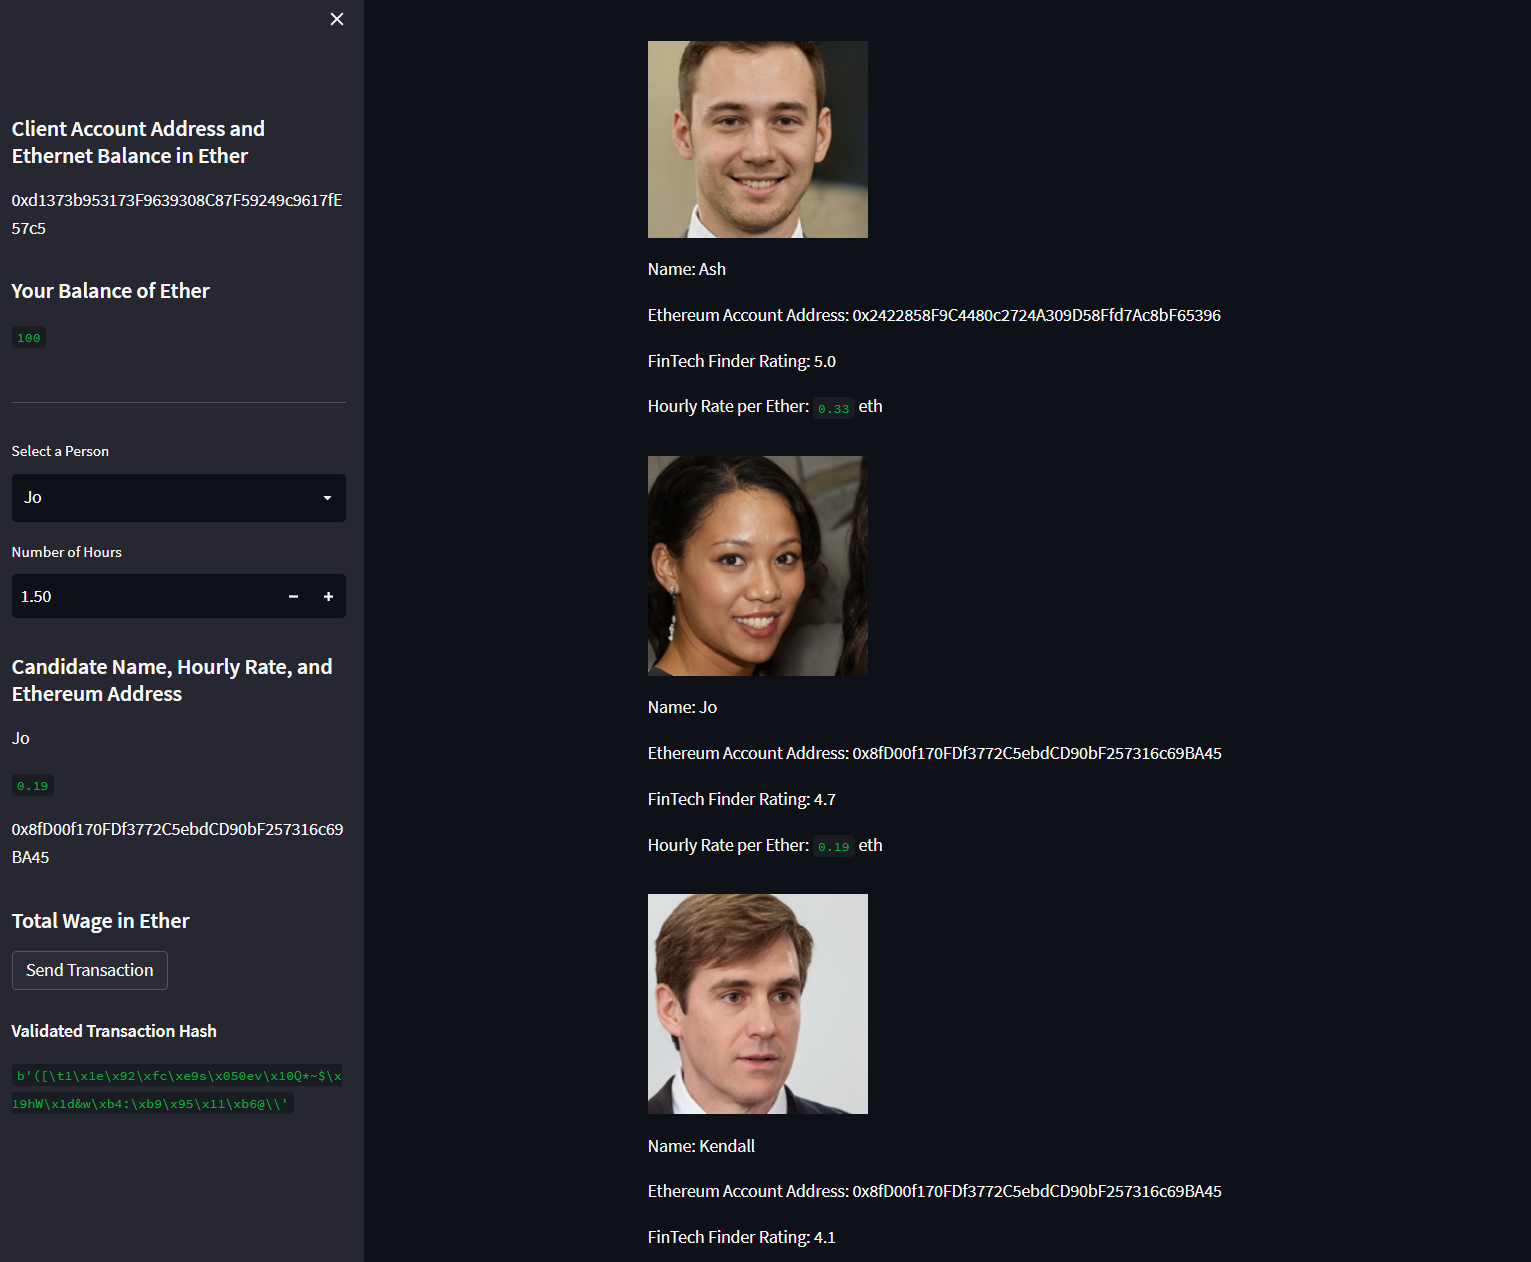
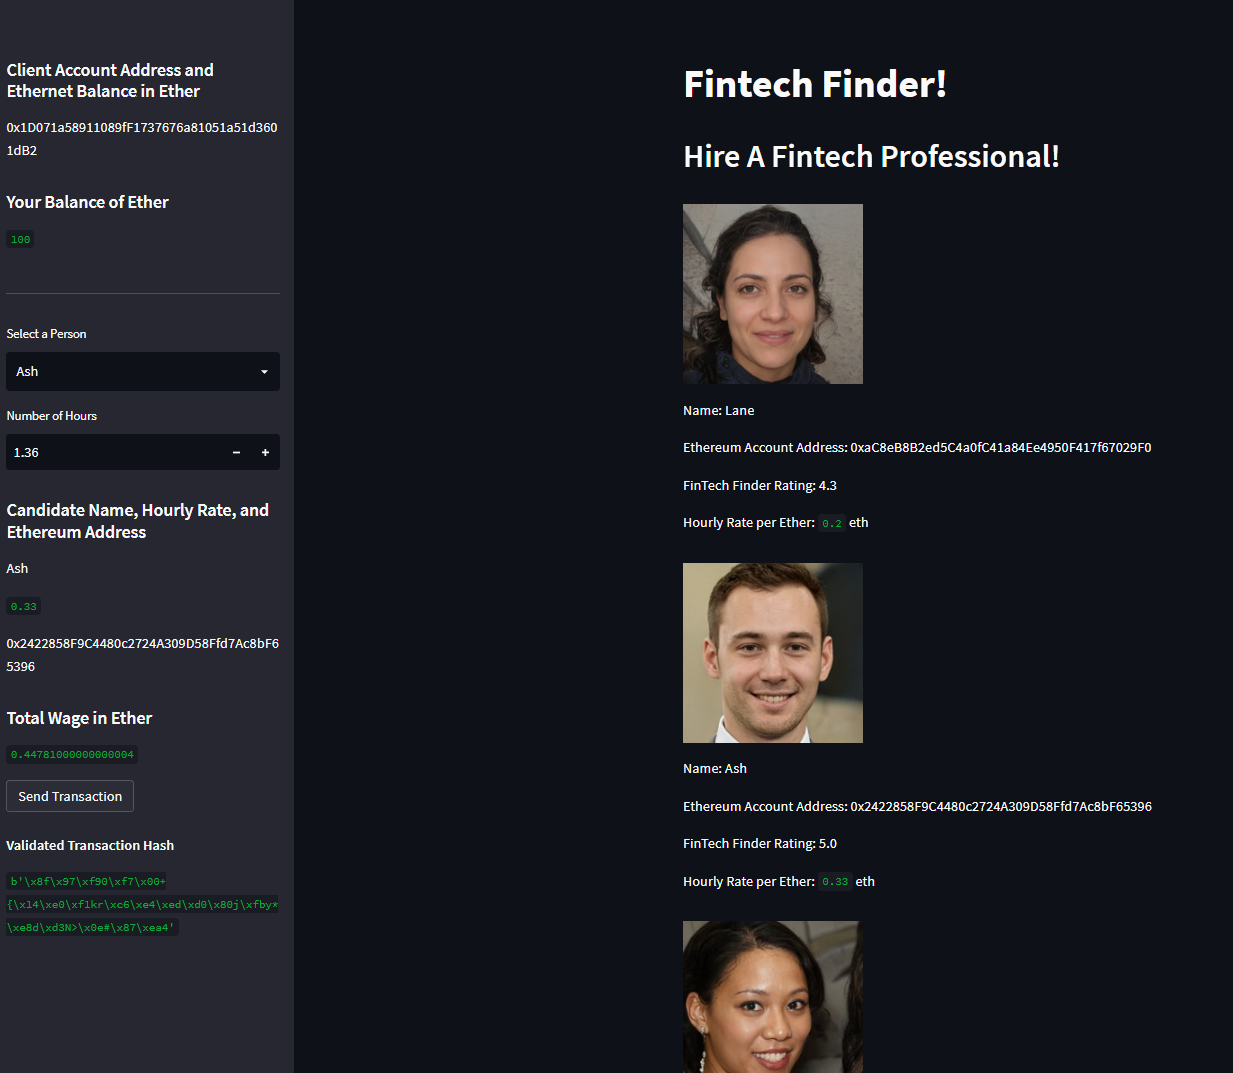
update Assignment19

diff --git a/Assignment19/.ipynb_checkpoints/fintech_finder-checkpoint.py b/Assignment19/.ipynb_checkpoints/fintech_finder-checkpoint.py
@@ -247,7 +247,9 @@ st.sidebar.markdown("## Total Wage in Ether")
 
 # @TODO
 # Write the `wage` calculation to the Streamlit sidebar
-wage = hourly_rate * hours
+wage = candidate_database[person][3] * hours
+
+st.sidebar.write(wage)
 
 ##########################################
 # Step 2 - Part 2:

diff --git a/Assignment19/fintech_finder.py b/Assignment19/fintech_finder.py
@@ -247,7 +247,9 @@ st.sidebar.markdown("## Total Wage in Ether")
 
 # @TODO
 # Write the `wage` calculation to the Streamlit sidebar
-wage = hourly_rate * hours
+wage = candidate_database[person][3] * hours
+
+st.sidebar.write(wage)
 
 ##########################################
 # Step 2 - Part 2:
